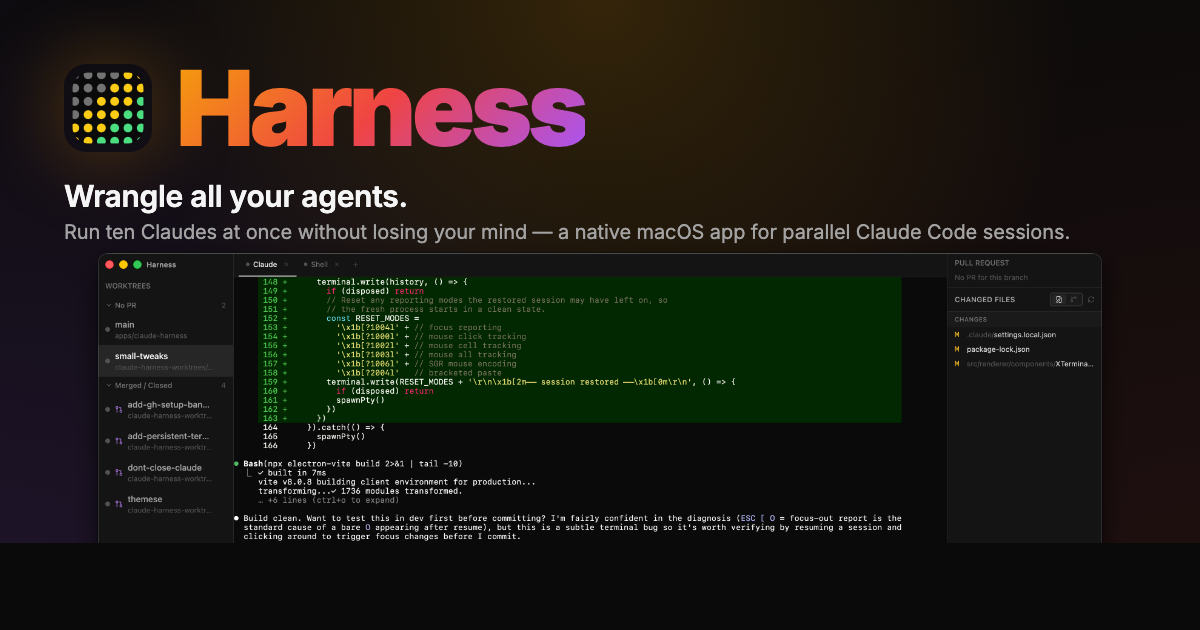
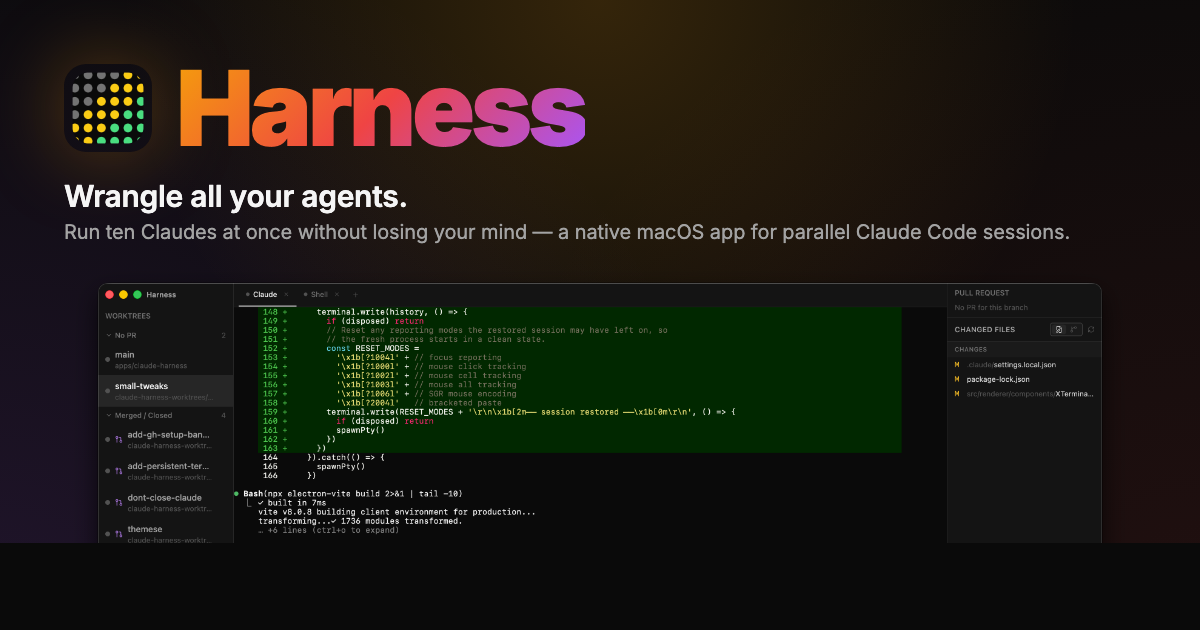
Tweak og-image screenshot height

Changed region(s): [[0.0925, 0.3921, 0.7708, 0.8746], [0.8017, 0.3921, 0.8942, 0.6333], [0.0925, 0.7841, 0.185, 0.8746]]

diff --git a/docs/og/template.html b/docs/og/template.html
@@ -65,7 +65,7 @@
     left: 64px;
     right: 64px;
     bottom: 0;
-    height: 400px;
+    height: 370px;
     overflow: hidden;
   }
   .shot-frame img {
